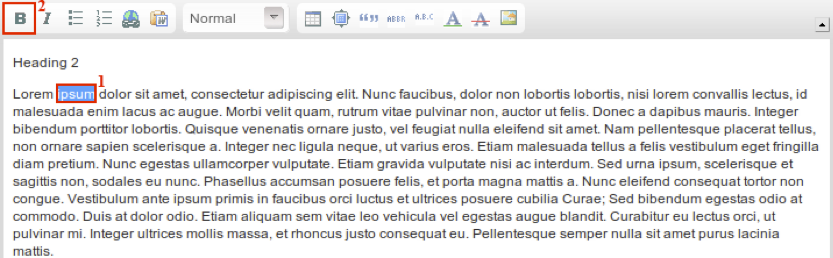
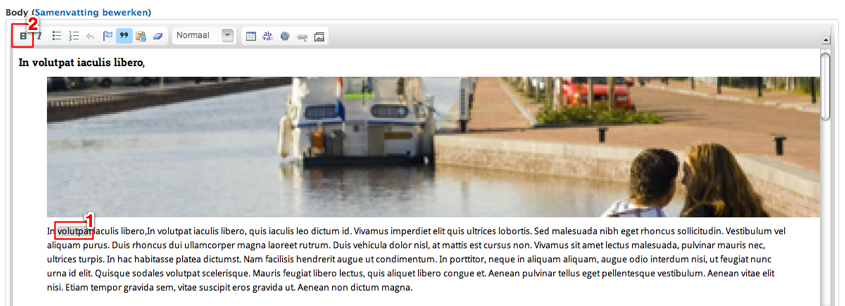
Handleiding: WYSIWYG updated met Linkit beschrijving en nieuwe afbeeldingen

diff --git a/docs/handleiding/content_management/wysiwyg.tex b/docs/handleiding/content_management/wysiwyg.tex
@@ -58,12 +58,9 @@ Om een genummerde lijst te maken kan men de Genummerde lijst knop gebruiken.
 	\includegraphics[width=\textwidth]{img/genummerde_lijst.png}
 \end{center}
 
-\subsubsection{Externe links openen automatisch in een nieuw venster}
-Via de Extlink module zorgen we ervoor dat links naar andere sites of documenten in een nieuw venster worden geopend.
-
 \subsubsection{Iframes}
-Om een andere website te tonen op de website maken we gebruik van een iframe. Via de wereldbolknop in 
-de WYSIWYG kan dit toevoegen aan de pagina. Er zijn drie velden verplicht:
+Om een andere website te tonen op \drupalpath maken we gebruik van een iframe. Via de \emph{wereldbolknop} in 
+de WYSIWYG-editor kun je een (externe)pagina tonen op een pagina van \drupalpath. Er zijn drie velden verplicht:
 \begin{enumerate}
 \item URL
 \item Breedte
@@ -71,18 +68,48 @@ de WYSIWYG kan dit toevoegen aan de pagina. Er zijn drie velden verplicht:
 \end{enumerate}
 
 \begin{center}
-	\includegraphics[scale=0.5]{img/iframe1.png}
-	De iframe knop in WYSIWYG
-\end{center}
-\begin{center}
-	\includegraphics[scale=0.5]{img/iframe2.png}
-	Het iframe dialoog
+	\includegraphics[width=\textwidth]{img/iframe1.png}
 \end{center}
 
 \subsubsection{Tabellen}
 Via de tabel knop kan een tabel worden ingevoegd. Via de dropdown koppen kan gekozen worden of de rij of kolom of beide.
 \begin{center}
 	\includegraphics[scale=0.5]{img/tabellen1.png}
+\end{center}
+
+\subsubsection{(Externe)Links}
+De Linkit module zorgt voor een makkelijke methode om links in content te plaatsen.  
+
+Er zijn twee methoden beschikbaar om links in content te plaatsen. \emph{Methode 1} maakt het mogelijk hele woorden of zinnen naar een (externe)pagina te linken. \emph{Methode 2} maakt het mogelijk een \emph{harde link} te plaatsen; de link is met deze methode is dan gelijk aan het opgegeven pad(URL), de bijbehorende afbeelding zal dit visueel uitleggen. Indien je met \emph{methode 2} een link maakt naar een \emph{interne pagina} dan zal de titel van pagina gebruikt worden voor de klikbare link. 
+
+\textbf{Methode 1:} 
+
+\begin{enumerate}
+\item Selecteer het woord of de zin die je wilt \emph{linken}
+\item Druk op het \emph{Linkit} knopje
+\item Zoek in het eerste veld op interne content, indien gevonden, klik op de gevonden titel
+\item Indien je zelf een URL wil invullen, bijvoorbeeld een externe, vul deze dan in bij het veld \emph{Link-url} 
+\item Klik op de knop 'Link invoegen' om te link toe te voegen aan de content
+\end{enumerate}
+
+\begin{center}
+	\includegraphics[width=\textwidth]{img/linkit1.png}
+	\includegraphics[width=\textwidth]{img/linkit2.png}
+	\includegraphics[width=\textwidth]{img/linkit3.png}
+\end{center}
+
+\textbf{Methode 2:} 
+
+\begin{enumerate}
+\item Druk op het \emph{Linkit} knopje
+\item Zoek in het eerste veld op interne content, indien gevonden, klik op de gevonden titel
+\item Indien je zelf een URL wil invullen, bijvoorbeeld een externe, vul deze dan in bij het veld \emph{Link-url} 
+\item Klik op de knop 'Link invoegen' om te link toe te voegen aan de content
+\end{enumerate}
+
+\begin{center}
+	\includegraphics[width=\textwidth]{img/linkit4.png}
+	\includegraphics[width=\textwidth]{img/linkit5.png}
 \end{center}
 
 \subsubsection{YouTube Embed via WYSIWYG}
